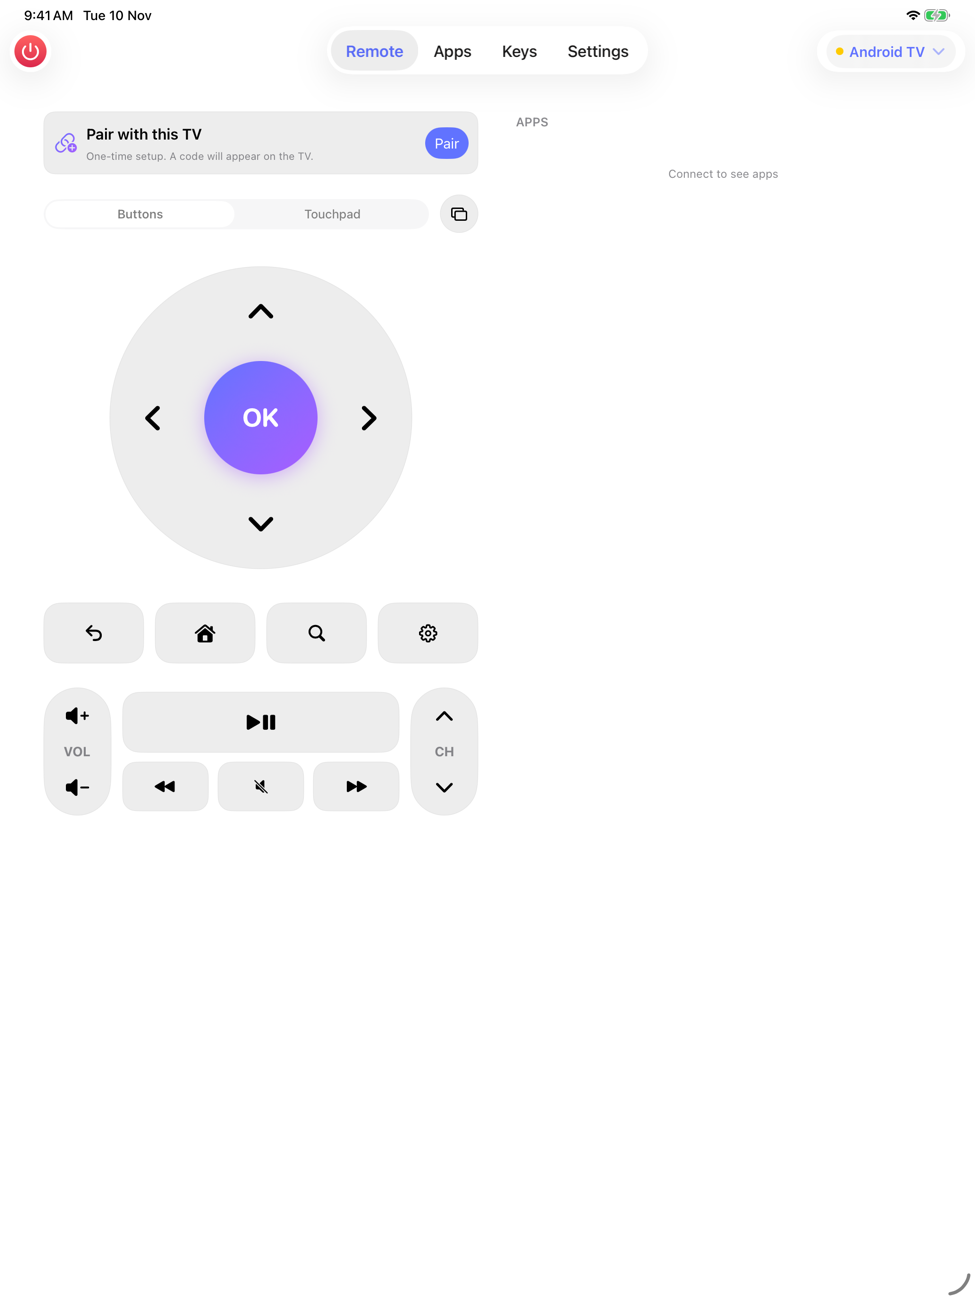
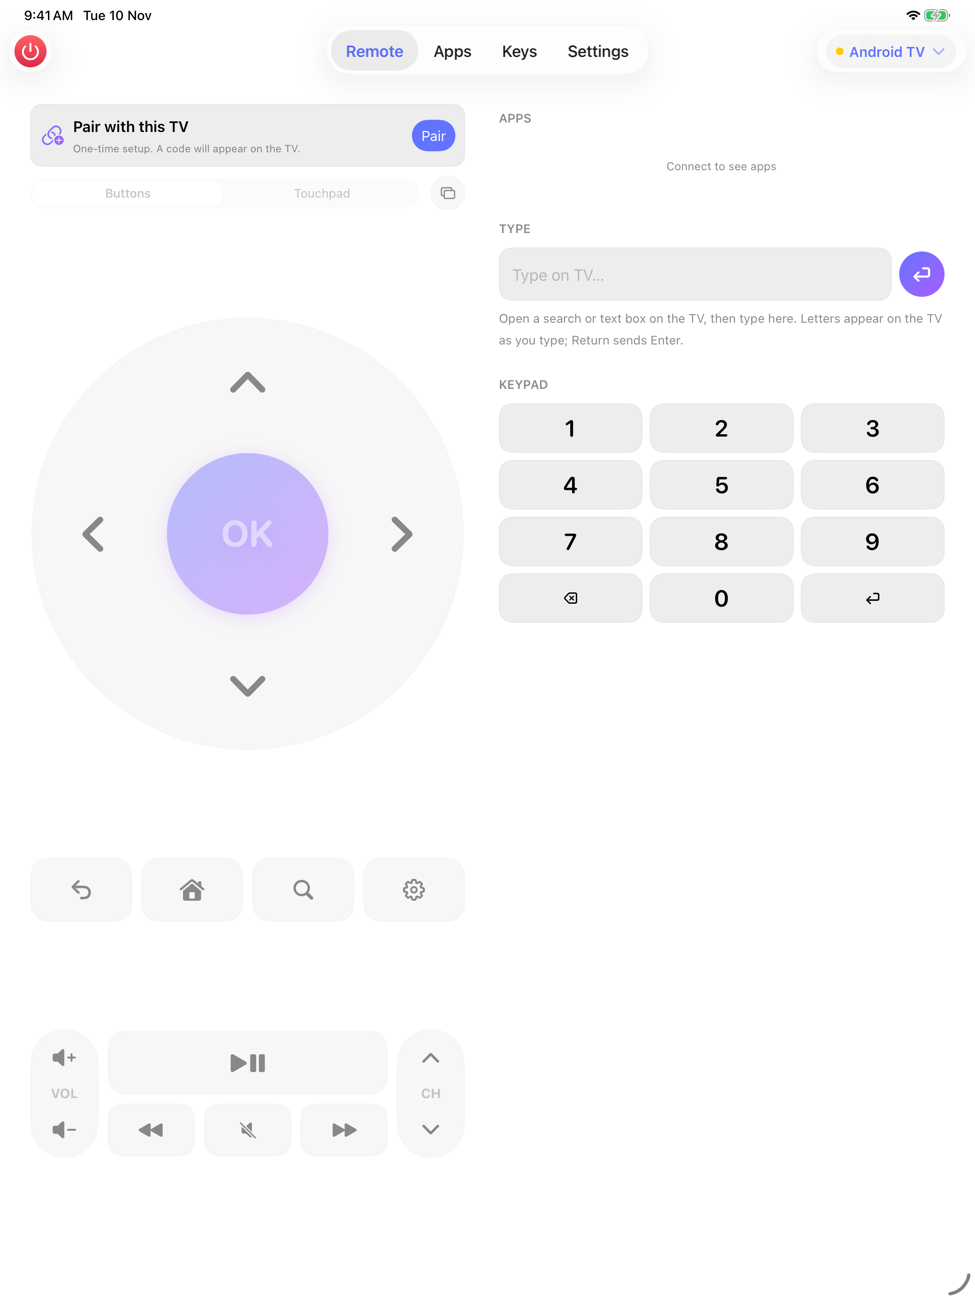
Mobile remote fills the screen; iPad two-column polish
- Remote tab sizes itself to the screen instead of scrolling: control
  surface scales with height, evenly spaced rows, and an app shortcut
  strip along the bottom (favorites and recents first)
- iPad: controls fill the left column; apps, live keyboard and number
  pad fill the right
- Refreshed iPhone and iPad screenshots; README updated

diff --git a/Sources/RemoteUI/Presentation/Mobile/MobileRemoteTab.swift b/Sources/RemoteUI/Presentation/Mobile/MobileRemoteTab.swift
@@ -2,7 +2,9 @@ import SwiftUI
 import TVKit
 
 #if os(iOS)
-/// The Remote tab: big touch targets, D-pad or touchpad, and on iPad a second column with apps.
+/// The Remote tab. Sized from the screen instead of scrolling, so the controls fill the space:
+/// control surface (D-pad or touchpad) on top, utility row, volume/media cluster, app shortcuts.
+/// On iPad, a second column holds apps and the keyboard so neither side is left empty.
 struct MobileRemoteTab: View {
     @EnvironmentObject var s: Store
     @Environment(\.horizontalSizeClass) private var sizeClass
@@ -12,25 +14,25 @@ struct MobileRemoteTab: View {
 
     var body: some View {
         NavigationStack {
-            ScrollView {
+            Group {
                 if s.tv == nil {
-                    NoTVView().padding(.horizontal, 20)
-                } else if sizeClass == .regular {
-                    HStack(alignment: .top, spacing: 40) {
-                        controls(big: true).frame(maxWidth: 460)
-                        VStack(alignment: .leading, spacing: 14) {
-                            Text(L10n.Mobile.Tab.apps.uppercased()).font(.footnote.weight(.semibold)).foregroundStyle(.secondary)
-                            AppsGrid(iconSize: 64, columns: 4, maxHeight: .infinity)
-                        }
-                        .frame(maxWidth: 440)
-                    }
-                    .padding(32)
-                    .frame(maxWidth: .infinity)
+                    ScrollView { NoTVView().padding(.horizontal, 20) }
                 } else {
-                    controls(big: false).padding(.horizontal, 20).padding(.bottom, 24)
+                    GeometryReader { geo in
+                        if sizeClass == .regular {
+                            HStack(alignment: .top, spacing: 36) {
+                                RemoteControls(mode: $mode, size: geo.size.height, width: min(460, geo.size.width * 0.46))
+                                    .frame(width: min(460, geo.size.width * 0.46))
+                                IPadSideColumn()
+                            }
+                            .padding(.horizontal, 32).padding(.vertical, 16)
+                        } else {
+                            RemoteControls(mode: $mode, size: geo.size.height, width: geo.size.width - 40)
+                                .padding(.horizontal, 20)
+                        }
+                    }
                 }
             }
-            .scrollBounceBehavior(.basedOnSize)
             .navigationTitle(L10n.Mobile.Tab.remote)
             .navigationBarTitleDisplayMode(.inline)
             .toolbar {
@@ -40,58 +42,133 @@ struct MobileRemoteTab: View {
         }
         .remoteKeyboardShortcuts()
     }
+}
 
-    private func controls(big: Bool) -> some View {
-        VStack(spacing: 22) {
-            ConnectionBanner() // stays tappable: it holds the Pair button
-            buttons(big: big).disabled(s.link == .needsPairing).opacity(s.link == .needsPairing ? 0.45 : 1)
-        }
-    }
+/// Everything on the Remote tab's main column, scaled to the available height.
+private struct RemoteControls: View {
+    @EnvironmentObject var s: Store
+    @Binding var mode: MobileRemoteTab.ControlMode
+    let size: CGFloat // available height
+    let width: CGFloat
+    @Environment(\.horizontalSizeClass) private var sizeClass
 
-    private func buttons(big: Bool) -> some View {
-        let key: CGFloat = big ? 64 : 56, small: CGFloat = big ? 52 : 46, pad: CGFloat = big ? 320 : 260
-        return VStack(spacing: big ? 26 : 22) {
-            HStack(spacing: 12) {
-                Picker("", selection: $mode) {
-                    Label(L10n.Mobile.Mode.buttons, systemImage: "circle.grid.cross").tag(ControlMode.dpad)
-                    Label(L10n.Mobile.Mode.touchpad, systemImage: "hand.point.up.left").tag(ControlMode.touchpad)
+    /// Shrinks everything a little on short screens (iPhone SE) and grows it on tall ones.
+    private var unit: CGFloat { min(max(size / 760, 0.72), 1.2) }
+    private var key: CGFloat { 56 * unit }
+    private var small: CGFloat { 46 * unit }
+    private var pad: CGFloat { min(width, max(190, size * 0.36)) }
+
+    var body: some View {
+        VStack(spacing: 0) {
+            ConnectionBanner().padding(.top, 8)
+
+            VStack(spacing: 0) {
+                HStack(spacing: 12) {
+                    Picker("", selection: $mode) {
+                        Label(L10n.Mobile.Mode.buttons, systemImage: "circle.grid.cross").tag(MobileRemoteTab.ControlMode.dpad)
+                        Label(L10n.Mobile.Mode.touchpad, systemImage: "hand.point.up.left").tag(MobileRemoteTab.ControlMode.touchpad)
+                    }
+                    .pickerStyle(.segmented).labelsHidden()
+                    InputMenu(size: 36)
                 }
-                .pickerStyle(.segmented).labelsHidden()
-                InputMenu(size: 40)
-            }
+                .padding(.top, 10)
 
-            Group {
-                switch mode {
-                case .dpad: DPad(diameter: pad).frame(height: pad + 20)
-                case .touchpad: Touchpad().frame(height: pad + 20)
-                }
-            }
-            .transition(.opacity.combined(with: .scale(scale: 0.97)))
-            .animation(.spring(response: 0.4, dampingFraction: 0.85), value: mode)
+                Spacer(minLength: 10)
 
-            HStack(spacing: 12) {
-                RemoteKey(.back, "arrow.uturn.backward", size: key, iconSize: 18)
-                RemoteKey(.home, "house.fill", size: key, iconSize: 18)
-                RemoteKey(.search, "magnifyingglass", size: key, iconSize: 18)
-                RemoteKey(.settings, "gearshape", size: key, iconSize: 18)
-            }
-
-            HStack(alignment: .center, spacing: 12) {
-                Rocker(up: .volUp, down: .volDown, upIcon: "speaker.plus.fill", downIcon: "speaker.minus.fill",
-                       label: L10n.Remote.volumeShort, scale: big ? 1.55 : 1.35)
-                VStack(spacing: 10) {
-                    RemoteKey(.playPause, "playpause.fill", size: key, iconSize: 20)
-                    HStack(spacing: 10) {
-                        RemoteKey(.rewind, "backward.fill", size: small, iconSize: 15)
-                        RemoteKey(.mute, "speaker.slash.fill", size: small, iconSize: 15)
-                        RemoteKey(.forward, "forward.fill", size: small, iconSize: 15)
+                Group {
+                    switch mode {
+                    case .dpad: DPad(diameter: pad).frame(maxWidth: .infinity)
+                    case .touchpad: Touchpad().frame(height: pad)
                     }
                 }
-                Rocker(up: .chUp, down: .chDown, upIcon: "chevron.up", downIcon: "chevron.down",
-                       label: L10n.Remote.channelShort, scale: big ? 1.55 : 1.35)
-            }
+                .transition(.opacity.combined(with: .scale(scale: 0.97)))
+                .animation(.spring(response: 0.4, dampingFraction: 0.85), value: mode)
 
-            if let v = s.volume { VolumeBar(volume: v).padding(.horizontal, 4) }
+                Spacer(minLength: 10)
+
+                HStack(spacing: 10) {
+                    RemoteKey(.back, "arrow.uturn.backward", size: key, iconSize: 18 * unit)
+                    RemoteKey(.home, "house.fill", size: key, iconSize: 18 * unit)
+                    RemoteKey(.search, "magnifyingglass", size: key, iconSize: 18 * unit)
+                    RemoteKey(.settings, "gearshape", size: key, iconSize: 18 * unit)
+                }
+
+                Spacer(minLength: 10)
+
+                HStack(alignment: .center, spacing: 10) {
+                    Rocker(up: .volUp, down: .volDown, upIcon: "speaker.plus.fill", downIcon: "speaker.minus.fill",
+                           label: L10n.Remote.volumeShort, scale: 1.3 * unit)
+                    VStack(spacing: 10) {
+                        RemoteKey(.playPause, "playpause.fill", size: key, iconSize: 20 * unit)
+                        HStack(spacing: 10) {
+                            RemoteKey(.rewind, "backward.fill", size: small, iconSize: 15 * unit)
+                            RemoteKey(.mute, "speaker.slash.fill", size: small, iconSize: 15 * unit)
+                            RemoteKey(.forward, "forward.fill", size: small, iconSize: 15 * unit)
+                        }
+                    }
+                    Rocker(up: .chUp, down: .chDown, upIcon: "chevron.up", downIcon: "chevron.down",
+                           label: L10n.Remote.channelShort, scale: 1.3 * unit)
+                }
+
+                if let v = s.volume { VolumeBar(volume: v).padding(.horizontal, 4).padding(.top, 12) }
+
+                Spacer(minLength: 10)
+
+                // iPad shows apps in the side column instead.
+                if sizeClass != .regular { AppStrip(iconSize: 50 * unit).padding(.bottom, 10) }
+            }
+            .disabled(s.link == .needsPairing)
+            .opacity(s.link == .needsPairing ? 0.45 : 1)
+        }
+    }
+}
+
+/// Horizontally scrolling app shortcuts (favorites and recents first), a tap from the remote.
+private struct AppStrip: View {
+    @EnvironmentObject var s: Store
+    let iconSize: CGFloat
+
+    var body: some View {
+        if !s.displayedApps.isEmpty {
+            ScrollView(.horizontal) {
+                HStack(spacing: 14) {
+                    ForEach(s.displayedApps) { app in
+                        Button { s.launch(app) } label: {
+                            VStack(spacing: 4) {
+                                AppIcon(app: app, tint: .gray, size: iconSize)
+                                Text(app.name).font(.system(size: 10, weight: .medium)).lineLimit(1)
+                                    .frame(width: iconSize + 14)
+                            }
+                        }
+                        .buttonStyle(PressStyle())
+                        .accessibilityLabel(L10n.Apps.open(app.name))
+                    }
+                }
+                .padding(.horizontal, 2).padding(.vertical, 4)
+            }
+            .scrollIndicators(.never)
+        }
+    }
+}
+
+/// iPad's second column: apps on top, then typing and the number pad.
+private struct IPadSideColumn: View {
+    var body: some View {
+        ScrollView {
+            VStack(alignment: .leading, spacing: 26) {
+                section(L10n.Mobile.Tab.apps) { AppsGrid(iconSize: 60, columns: 5, maxHeight: .infinity) }
+                section(L10n.Remote.Tab.type) { TypePad(large: true) }
+                section(L10n.Remote.Tab.keypad) { KeypadGrid(height: 52) }
+            }
+            .padding(.vertical, 12)
+        }
+        .scrollIndicators(.never)
+    }
+
+    func section<C: View>(_ title: String, @ViewBuilder _ content: () -> C) -> some View {
+        VStack(alignment: .leading, spacing: 10) {
+            Text(title.uppercased()).font(.footnote.weight(.semibold)).foregroundStyle(.secondary)
+            content()
         }
     }
 }

diff --git a/README.md b/README.md
@@ -68,9 +68,9 @@ A native iPhone and iPad app shares every rule, protocol driver and component wi
 </p>
 
 - **Tab bar** with Remote, Apps, Keys and Settings. iPhone shows it at the bottom; iPadOS shows it at the top.
-- **Remote tab:** a large arrow pad, or a **touchpad**: swipe to move (each swipe step is one arrow press, with haptics) and tap to select. Big buttons for back, home, search, settings, play/pause and media, plus volume and channel rockers and the live volume bar.
+- **Remote tab:** fills the screen with no scrolling. It has a large arrow pad or a **touchpad** (swipe to move, with each swipe step one arrow press and a haptic tap; tap to select), big buttons for back, home, search and settings, a volume/media/channel cluster, the live volume bar, and **a row of your apps** at the bottom. Everything scales to the screen, from iPhone SE to Pro Max.
 - **TV switcher** in the navigation bar: switch between saved TVs or find new ones. Pairing opens as a sheet.
-- **iPad:** a two-column remote, with controls on the left and your apps on the right.
+- **iPad:** a two-column remote. The controls fill the left column; your apps, the live keyboard and the number pad fill the right.
 - **Keys tab:** a live keyboard for the TV's text boxes, a number pad, and extra keys (guide, captions, stop, power on/off).
 - With a hardware keyboard attached, the same shortcuts as on the Mac work, and Settings lists them.
 
